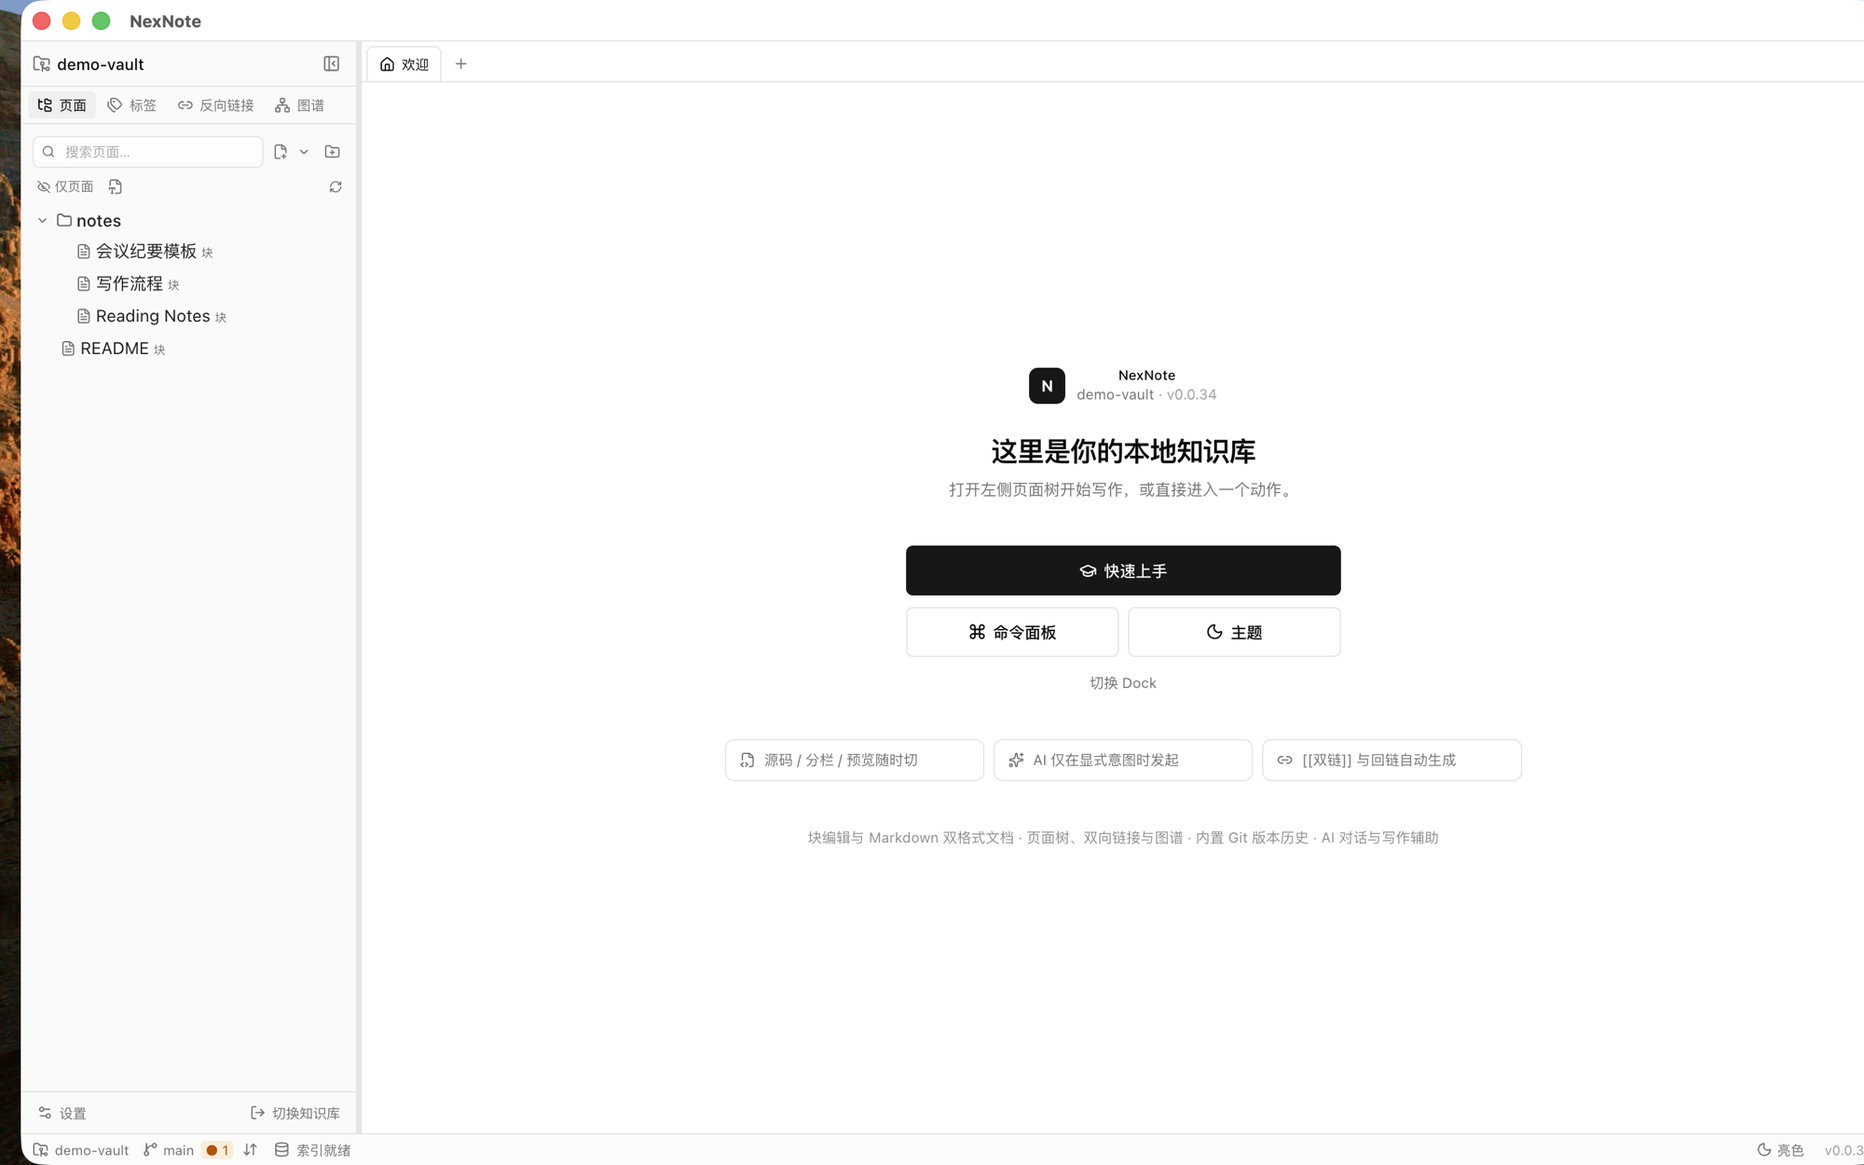
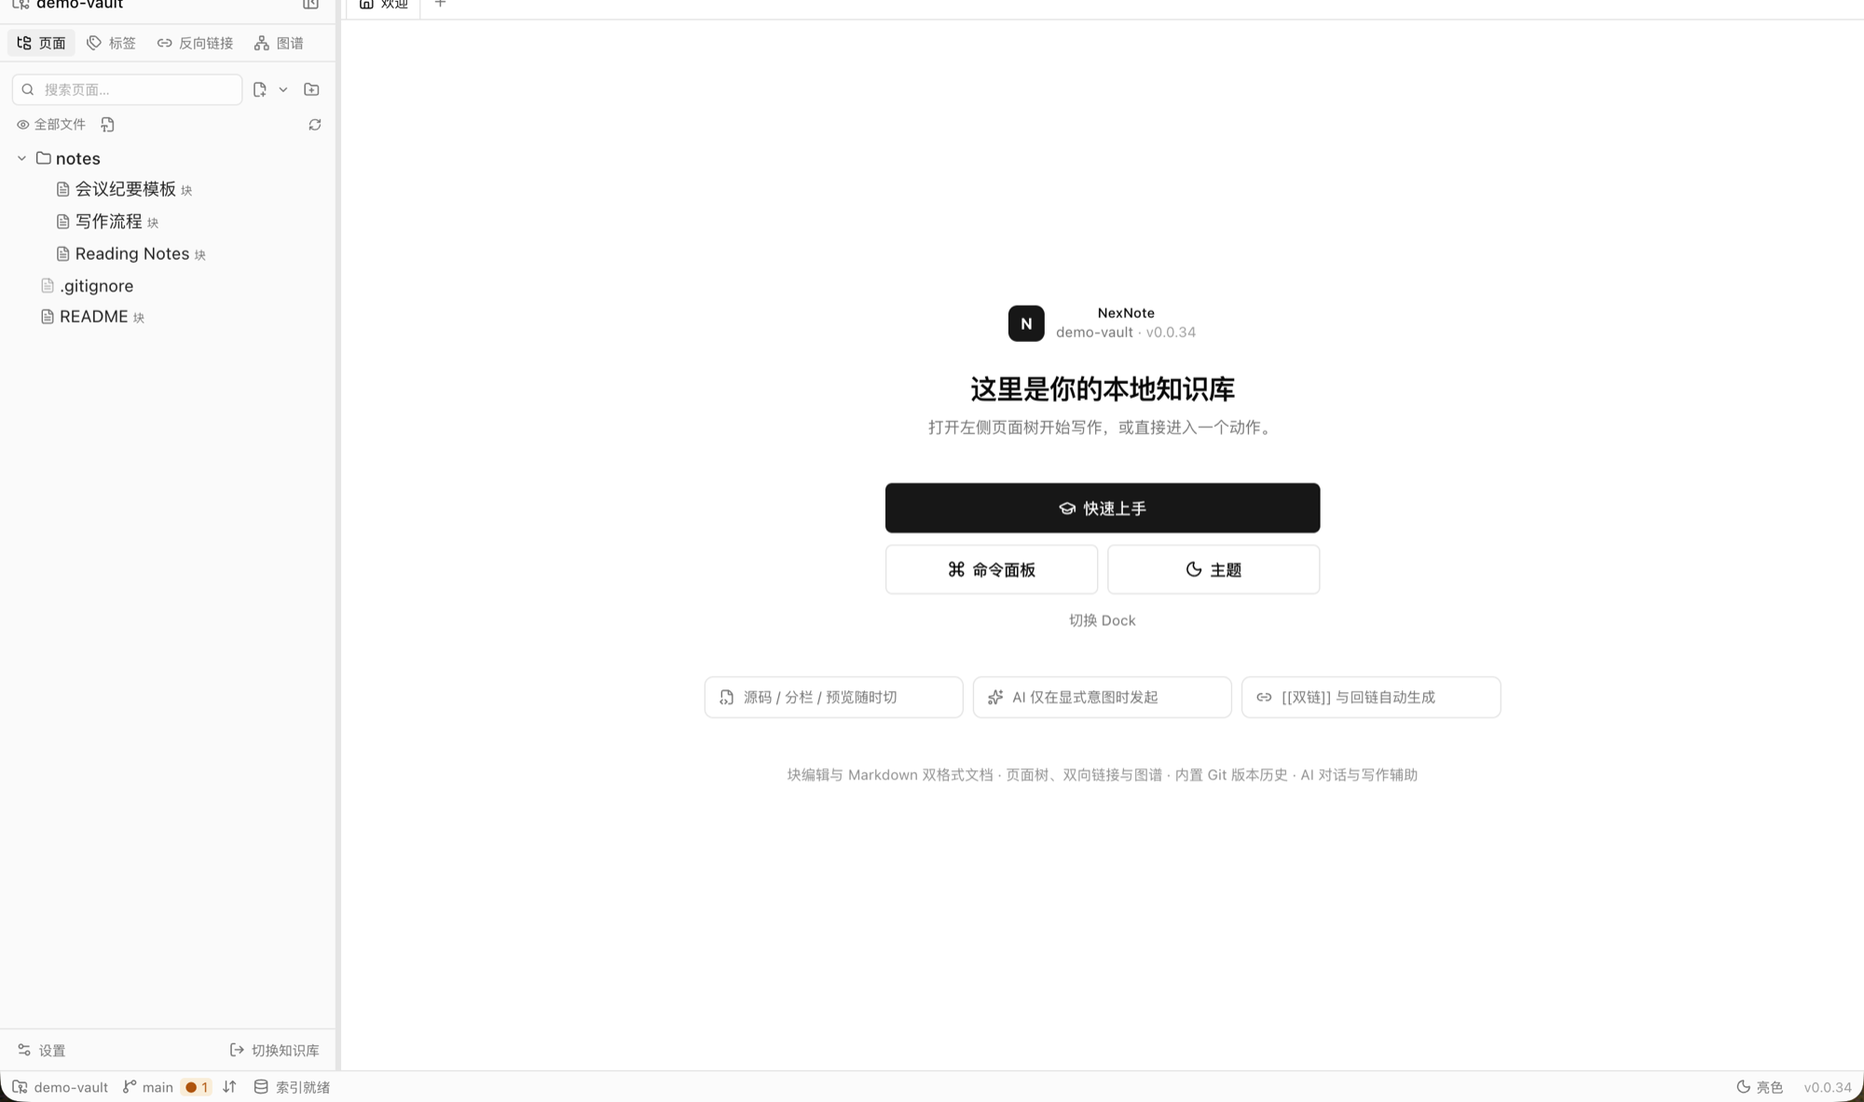
docs(website): DEV-103/ADR-0025 macOS 全套内容页截图嵌入中英正文
六张打包应用（v0.0.34）+ docs/demo-vault 实拍资产落盘
public/screenshots/（2000px，系统级点击 + 捕获期隐藏光标 + 仅截
窗口内容区，无光标残影/桌面条/窗口 chrome，逐张目检验收）：
welcome、editor-reading-notes、graph、settings、plugins、ai-dock。

文档渲染器解锁块级图片语法：仅放行仓库自带 /screenshots/*.png
（其余 src 一律拒绝），输出 figure + figcaption + lazy，docs.css
配套样式；六张图按章节嵌入中英正文并标注「截图以 macOS 为准」，
website-docs-render.test.tsx 锁定安全渲染、双语嵌入与资产存在性。

ADR-0025 与 DEV-103 回填：内容页截图 NOT_RUN → 完成（含图谱
Handle 缺陷修复交叉引用）；en-US 重截与 Windows/Linux 截图仍为
已登记后续项。

diff --git a/packages/renderer/tests/website-docs-render.test.tsx b/packages/renderer/tests/website-docs-render.test.tsx
@@ -2,9 +2,12 @@
 /** 网站文档渲染与路由契约的回归测试：渲染器在共享 vitest 环境下验证。 */
 import { act } from 'react';
 import { createRoot } from 'react-dom/client';
+import { existsSync } from 'node:fs';
+import { join } from 'node:path';
 import { describe, expect, it } from 'vitest';
 import { DocsChapter, DocsIndex, docsCopy } from '../../../apps/website/src/docs/DocsView';
 import { chapters } from '../../../apps/website/src/docs/content';
+import { renderMarkdown } from '../../../apps/website/src/docs/markdown';
 
 (globalThis as { IS_REACT_ACT_ENVIRONMENT?: boolean }).IS_REACT_ACT_ENVIRONMENT = true;
 
@@ -106,5 +109,43 @@ describe('website docs', () => {
       <DocsChapter lang="zh" text={docsCopy.zh} slug="spreadsheets-and-mindmaps" />,
     );
     expect(chapter).toContain('导入或新建');
+  });
+  it('renders bundled screenshots as lazy figures and rejects unsafe image sources', () => {
+    const safe = renderMarkdown('![界面](/screenshots/macos-welcome-zh.png "欢迎页实拍")');
+    expect(safe).toContain('<figure class="docs-figure">');
+    expect(safe).toContain('src="/screenshots/macos-welcome-zh.png"');
+    expect(safe).toContain('alt="界面"');
+    expect(safe).toContain('loading="lazy"');
+    expect(safe).toContain('decoding="async"');
+    expect(safe).toContain('<figcaption>欢迎页实拍</figcaption>');
+
+    const unsafe = renderMarkdown('![危险](javascript:alert(1))');
+    expect(unsafe).not.toContain('<img');
+    expect(unsafe).not.toContain('src="javascript:');
+  });
+  it('embeds screenshots in the relevant bilingual chapters and every asset exists', () => {
+    const expectations: Record<string, string[]> = {
+      'getting-started': [
+        '/screenshots/macos-welcome-zh.png',
+        '/screenshots/macos-editor-reading-notes-zh.png',
+        '/screenshots/macos-ai-dock-zh.png',
+      ],
+      wikilinks: ['/screenshots/macos-graph-zh.png'],
+      'ai-assistant': ['/screenshots/macos-ai-dock-zh.png'],
+      plugins: ['/screenshots/macos-plugins-zh.png'],
+      settings: ['/screenshots/macos-settings-zh.png'],
+    };
+
+    for (const lang of ['zh', 'en'] as const) {
+      for (const [slug, sources] of Object.entries(expectations)) {
+        const out = render(
+          <DocsChapter lang={lang} text={docsCopy[lang]} slug={slug} />,
+        );
+        for (const source of sources) {
+          expect(out).toContain(`src="${source}"`);
+          expect(existsSync(join(process.cwd(), 'apps/website/public', source))).toBe(true);
+        }
+      }
+    }
   });
 });

diff --git a/apps/website/src/docs/markdown.ts b/apps/website/src/docs/markdown.ts
@@ -1,8 +1,9 @@
 /**
  * 面向产品文档的最小 Markdown 渲染器。
  * 只支持仓库章节实际用到的语法：标题、段落、有序/无序列表、围栏代码块、
- * 引用、GFM 表格，以及行内的 `code` / **bold** / *italic* / [link](href)。
- * 输出经过转义；链接仅允许相对路径、锚点与 http(s)。
+ * 引用、GFM 表格、块级图片，以及行内的 `code` / **bold** / *italic* /
+ * [link](href)。输出经过转义；链接仅允许相对路径、锚点与 http(s)，
+ * 图片仅允许仓库自带的 `/screenshots/*.png`。
  */
 
 function escapeHtml(text: string): string {
@@ -30,6 +31,21 @@ function safeHref(href: string): string | null {
     return trimmed;
   }
   return null;
+}
+
+function safeImageSrc(src: string): string | null {
+  const trimmed = src.trim();
+  return /^\/screenshots\/[a-z0-9][a-z0-9/_-]*\.png$/i.test(trimmed) ? trimmed : null;
+}
+
+function image(line: string): string | null {
+  const match = /^!\[([^\]]*)\]\((\/screenshots\/[^\s)]+)(?:\s+"([^"]*)")?\)\s*$/.exec(line);
+  if (!match) return null;
+  const src = safeImageSrc(match[2] ?? '');
+  if (!src) return null;
+  const alt = escapeHtml(match[1] ?? '');
+  const caption = match[3] ? `<figcaption>${escapeHtml(match[3])}</figcaption>` : '';
+  return `<figure class="docs-figure"><img src="${escapeHtml(src)}" alt="${alt}" loading="lazy" decoding="async">${caption}</figure>`;
 }
 
 function inline(text: string): string {
@@ -109,6 +125,14 @@ export function renderMarkdown(source: string): string {
       index += 1;
       const attribute = language ? ` class="lang-${escapeHtml(language)}"` : '';
       out.push(`<pre${attribute}><code>${escapeHtml(body.join('\n'))}</code></pre>`);
+      continue;
+    }
+
+    const figure = image(line.trim());
+    if (figure) {
+      flushParagraph();
+      out.push(figure);
+      index += 1;
       continue;
     }
 

diff --git a/apps/website/src/docs.css b/apps/website/src/docs.css
@@ -245,6 +245,26 @@
   color: #312e81;
 }
 
+.docs-body .docs-figure {
+  margin: 22px 0 26px;
+}
+
+.docs-body .docs-figure img {
+  background: #fff;
+  border: 1px solid #deded8;
+  border-radius: 10px;
+  display: block;
+  height: auto;
+  width: 100%;
+}
+
+.docs-body .docs-figure figcaption {
+  color: #6b6b64;
+  font-size: 13px;
+  line-height: 1.6;
+  margin-top: 8px;
+}
+
 .docs-pager {
   border-top: 1px solid #deded8;
   display: flex;

diff --git a/docs/tickets/DEV-103-product-docs-on-website.md b/docs/tickets/DEV-103-product-docs-on-website.md
@@ -1,6 +1,6 @@
 # DEV-103 官网产品文档上线 + 欢迎页「快速上手」跳转文档
 
-状态：partial（文档站 + 跳转已随 v0.0.30 发布并于 2026-10-12 实拍复验 CTA；11 章内容已补齐；ADR-0024 手机端双语已实现；ADR-0023 桌面端双语阶段②③④持续推进；ADR-0025 macOS 欢迎页 + 文档站截图已出，应用内容页截图仍待 GUI 环境稳定）
+状态：partial（文档站 + 跳转已随 v0.0.30 发布并于 2026-10-12 实拍复验 CTA；11 章内容已补齐并嵌入全套 macOS 实拍截图；ADR-0024 手机端双语已实现；ADR-0023 桌面端双语阶段②③④持续推进；ADR-0025 macOS 全套 6 张截图完成并嵌入中英正文，en-US 重截与 Windows/Linux 截图仍待环境）
 日期：2026-10-07（grill 四轮确认；2026-10-07 随 v0.0.30 发布已落地的部分见「本轮实际交付」）
 关联：ADR-0021、ADR-0022、ADR-0023、ADR-0024、ADR-0025、ADR-0010（Docs 边界已被 ADR-0021 推翻并就地标注）、DEV-074
 
@@ -54,7 +54,7 @@
 
 - [ ] ADR-0023 桌面端界面双语：消息目录 + 跨进程错误码化，完成门槛 en-US 全 UI 无中文残留（2026-10-09 阶段①②第一批已落地，见下）
 - [x] ADR-0024 手机端 Flutter l10n（2026-10-09 完成：`flutter_localizations` + 各 161 key 的 `.arb` + 错误码化 + iOS `CFBundleLocalizations`/`knownRegions`；证据见下）
-- [ ] ADR-0025 演示知识库 + macOS 截图上官网；Windows/Linux 截图待环境就绪补拍
+- [x] ADR-0025 演示知识库 + macOS 截图上官网（2026-10-12 晚全套 6 张完成并嵌入中英正文；en-US 重截与 Windows/Linux 截图待环境就绪补拍）
 - [x] 文档其余章节补齐（2026-10-09 完成：11 章中英双语，`website-docs-render.test.tsx` 目录契约测试锁定）
 - [x] 官网部署到生产 Vercel 后核验深链对外可达（2026-10-09：四条生产深链均 200，且真实 Chrome 渲染核验中英快速上手页内容完整）
 
@@ -147,7 +147,7 @@
 
 - [x] 演示知识库已新建于 `docs/demo-vault/`（本地资产、不入外层仓库）：自带独立 `.git`、中英双语 4 个真实示例页面、双链与标签关系真实存在（ADR-0010/0025 硬约束）
 - [x] 截图的 GUI 环境阻塞已于 2026-10-12 解锁：Mac 唤醒后成功启动打包应用打开演示库并实拍（详见下方 2026-10-12 进展）
-- [~] 截图入官网：欢迎页 CTA 与文档站两张资产已落盘 `apps/website/public/screenshots/`，但按 ADR-0025「未实际拍摄不得声称已验收」，在应用内容页截图补齐前**不发布到官网正文**，避免以不完整截图集对外呈现
+- [~] 截图入官网：~~欢迎页 CTA 与文档站两张资产已落盘~~ → 2026-10-12 晚全套 6 张应用截图 + 文档站资产已落盘并嵌入中英正文（见下方「2026-10-12 晚」进展）
 - [ ] Windows/Linux 截图（环境不具备，见 ADR-0025 已登记后续项）
 
 ### ADR-0025 截图进展（2026-10-12）
@@ -155,7 +155,15 @@
 - [x] **欢迎页 CTA 实拍验收**：解锁后的图形会话中启动打包应用 `release/mac-arm64/NexNote.app`（v0.0.34）打开 `docs/demo-vault`，点击欢迎页「快速上手」后系统默认浏览器（Google Chrome）打开 `https://website-aiden-fes-projects.vercel.app/zh/docs/getting-started`，标题为「快速上手 · NexNote 文档」——「用系统默认浏览器打开对应语言文档页」的决定得到实测确认。
 - [x] **文档站实拍**：`/zh/docs/getting-started` 完整渲染 11 章侧栏、页内目录、正文表格与版本标注。用户此前报告的「文档无图例」经核查为当前设计边界——文档渲染器（`apps/website/src/docs/markdown.ts`）按 ADR-0010 只支持文本、表格、代码块与双链语法，不解析 `![](...)` 图片语法，文档正文本就是纯文字排版。
 - [x] 产出两张 macOS 实拍资产（2000px 宽，落盘 `apps/website/public/screenshots/`）：`macos-welcome-zh.png`（欢迎页 + 页面树 + 快速上手 CTA）、`docs-getting-started-zh.png`（文档快速上手页全貌）。暂未嵌入正文（渲染器不支持图片语法）。
-- [ ] macOS 全套**应用内容页**截图（编辑器 / 图谱 / 设置 / 插件）：本次 GUI 自动化中，侧边栏文件树的点击与 Tab 导航焦点在 Electron 渲染进程与浏览器之间反复漂移（前台被其他应用抢占、窗口位置漂移、Tab 焦点跳出到 Chrome），未能在打包应用中稳定打开 `notes/Reading Notes` 等内容页。按 ADR-0025「未实际拍摄不得声称已验收」的边界保持 `NOT_RUN`，不放有瑕疵截图充当证据。
+- [ ] macOS 全套**应用内容页**截图（编辑器 / 图谱 / 设置 / 插件）：本次 GUI 自动化中，侧边栏文件树的点击与 Tab 导航焦点在 Electron 渲染进程与浏览器之间反复漂移（前台被其他应用抢占、窗口位置漂移、Tab 焦点跳出到 Chrome），未能在打包应用中稳定打开 `notes/Reading Notes` 等内容页。按 ADR-0025「未实际拍摄不得声称已验收」的边界保持 `NOT_RUN`，不放有瑕疵截图充当证据。（→ 当晚已解决，见下）
+- [ ] en-US 界面重截、Windows/Linux 截图（环境仍不具备，见 ADR-0025）。
+
+### ADR-0025 截图进展（2026-10-12 晚，全套完成）
+
+- [x] **macOS 全套应用内容页截图实拍完成**：打包应用 v0.0.34 + `docs/demo-vault`，系统级 CGEvent 点击 + 捕获期隐藏光标 + 仅截窗口内容区（无光标、无桌面条、无窗口 chrome），六张 2000px 资产落盘并逐张目检验收：`macos-welcome-zh.png` / `macos-editor-reading-notes-zh.png` / `macos-graph-zh.png` / `macos-settings-zh.png` / `macos-plugins-zh.png` / `macos-ai-dock-zh.png`。
+- [x] **图谱页实拍暴露产品缺陷并修复**：自定义图谱节点未注册 React Flow `Handle`，全部 6 条边被 `EdgeWrapper` 丢弃（`getEdgePosition()` 恒 null）。`GraphPageNode` 补透明零占位 Handle，普通边色提升为 `--muted-foreground`；`graph-model.test.ts` 锁定边样式契约。
+- [x] **文档渲染器支持安全的块级图片语法**：`markdown.ts` 仅放行仓库自带 `/screenshots/*.png`（拒绝其他 src，`javascript:` 不产生 `<img>`），输出 `<figure>` + figcaption + lazy；`docs.css` 配套样式。
+- [x] **六张截图嵌入中英双语正文**：快速上手 ×3（欢迎页/编辑器/AI dock）、wikilinks（图谱）、ai-assistant（AI dock）、plugins、settings；题注注明「截图以 macOS 为准，各平台功能一致」。`website-docs-render.test.tsx` 锁定安全渲染、双语嵌入与资产文件存在性。
 - [ ] en-US 界面重截、Windows/Linux 截图（环境仍不具备，见 ADR-0025）。
 
 ## Out of scope

diff --git a/docs/adr/0025-official-screenshot-platform-policy.md b/docs/adr/0025-official-screenshot-platform-policy.md
@@ -44,11 +44,36 @@ status: in_progress
   - `apps/website/public/screenshots/macos-welcome-zh.png`（欢迎页 + 页面树 + 快速上手 CTA）
   - `apps/website/public/screenshots/docs-getting-started-zh.png`（文档快速上手页全貌）
 
-### 仍未完成
+### 仍未完成（2026-10-12 下午核查，当晚已解决第一项）
 
-- **应用内容页（编辑器/图谱/设置/插件等）截图**：本次 GUI 自动化中，侧边栏文件树的
-  点击与 Tab 导航焦点在 Electron 渲染进程与浏览器之间反复漂移（前台被其他应用抢占、
-  窗口位置漂移、Tab 焦点跳出到 Chrome），未能在打包应用中稳定打开
-  `notes/Reading Notes` 等内容页。按本 ADR「未实际拍摄的平台/页面不得声称已验收」的边界，
-  这些页面保持 `NOT_RUN`，不放入任何有瑕疵的截图作为验收证据。
-- en-US 界面重截、macOS 全套页面截图、Windows/Linux 截图仍待后续环境就绪补拍。
+- ~~**应用内容页（编辑器/图谱/设置/插件等）截图**~~：当晚已全套实拍完成，见下节。
+- en-US 界面重截、Windows/Linux 截图仍待后续环境就绪补拍。
+
+### 应用内容页截图全套完成（2026-10-12 晚）
+
+- **实拍中发现并修复产品缺陷**：初版图谱页截图显示 4 节点但 6 条链接全部缺失——
+  根因是自定义图谱节点（`GraphPageNode`）未注册 React Flow `Handle`，`getEdgePosition()`
+  恒返回 null，`EdgeWrapper` 丢弃全部边。修复为节点注册透明零占位 Handle（不参与连线），
+  并顺带把普通边色从几乎不可见的 `--border` 提升为 `--muted-foreground`（1.4 宽、
+  选中路径外 0.2 透明度）。`graph-model.test.ts` 锁定边样式契约。
+- **文档渲染器解锁图片语法**：`apps/website/src/docs/markdown.ts` 新增**块级**图片支持，
+  仅放行仓库自带 `/screenshots/*.png`（其余 src 一律拒绝，`javascript:` 等不产生 `<img>`），
+  输出 `<figure class="docs-figure">` + 可选 figcaption，`loading="lazy"`；`docs.css` 配套
+  figure 样式。`website-docs-render.test.tsx` 锁定安全渲染、双语章节嵌入与资产文件存在性。
+- **截图工艺定型**：系统级 CGEvent 点击 + 捕获期 `CGDisplayHideCursor` 隐藏光标 +
+  `screencapture -R0,80,1440,852` 仅取窗口内容区（跳过标题栏与圆角外桌面），彻底消除
+  此前批次的光标残影与顶部桌面条瑕疵；点击后光标移至空白区避免 hover tooltip 残留。
+- **六张内容页截图全部实拍完成**（打包应用 v0.0.34 + `docs/demo-vault`，2000px 宽落盘
+  `apps/website/public/screenshots/`，均经逐张目检验收）：
+  - `macos-welcome-zh.png`（欢迎页 + 页面树 + 快速上手 CTA，Dock 收起）
+  - `macos-editor-reading-notes-zh.png`（Reading Notes 块编辑器：frontmatter、双语正文、双链、已保存）
+  - `macos-graph-zh.png`（知识图谱 4 页面 · 6 链接，修复后边全部渲染）
+  - `macos-settings-zh.png`（设置 → 常规：外观/语言/字体/翻译）
+  - `macos-plugins-zh.png`（设置 → 插件：内置 Mermaid 详情、贡献点、权限、RPC 审计）
+  - `macos-ai-dock-zh.png`（欢迎页 + 右侧 AI 对话 dock 未配置空态）
+- 六张截图已嵌入中英双语对应章节正文（快速上手 ×3、双链/图谱、AI 助手、插件、设置），
+  题注标注「截图以 macOS 为准，各平台功能一致」口径。
+
+### 仍未完成（截至 2026-10-12 晚）
+
+- en-US 界面重截、Windows/Linux 截图（环境仍不具备，见上）。

diff --git a/docs/user-guide/en/getting-started.md b/docs/user-guide/en/getting-started.md
@@ -21,6 +21,8 @@ A vault is an ordinary folder, and it must contain `.git`. NexNote creates `.nex
 
 Once it is open, the page tree is on the left, the command palette is on top (⌘K), and the collapsible AI chat dock is on the right.
 
+![NexNote welcome screen and quick-start action](/screenshots/macos-welcome-zh.png "Captured on macOS with the Simplified Chinese UI; Windows and Linux expose the same features.")
+
 ## 2. Write your first page
 
 Click "New" in the page tree to pick one of three formats:
@@ -32,6 +34,8 @@ Click "New" in the page tree to pick one of three formats:
 In a block document, typing `/` opens the quick-insert menu for headings, to-dos, code blocks, callouts, Mermaid diagrams and math formulas.
 
 Content is **autosaved** (by default 1.5 seconds after you stop typing) and then bundled into one Git commit by the **auto-commit** window (30 seconds by default). Both intervals are configurable in Settings.
+
+![A real block document in the editor](/screenshots/macos-editor-reading-notes-zh.png "A page from the demo vault; the heading, list, wikilink and saved state are real product UI.")
 
 ## 3. Create your first wikilink
 
@@ -61,6 +65,8 @@ The default shortcuts are `⌘E` (source ↔ split) and `⌘⇧E` (preview ↔ t
 AI is unavailable until you add an OpenAI-compatible provider profile (base URL, API key, model name) under **Settings → AI providers**. The key is stored in the system keychain and is never written into the vault.
 
 NexNote only issues an AI request when **you explicitly trigger an AI action** — editing, saving, navigating, or changing the selection never does. Sessions have permission modes: chat (read-only), edit (approve each turn), and full access (writes back automatically under guardrails).
+
+![The collapsible AI chat dock on the right](/screenshots/macos-ai-dock-zh.png "AI stays unconfigured until you add a provider; only explicit AI actions issue requests.")
 
 ## 6. Version history and sync
 

diff --git a/docs/user-guide/en/plugins.md b/docs/user-guide/en/plugins.md
@@ -25,3 +25,5 @@ Mermaid diagrams and KaTeX formulas ship as built-in plugins: their manifests ar
 ## Managing plugins
 
 In Settings you can inspect installed plugins, enable or disable them, and see which capabilities each declares. Third-party plugins only see data the host allows. The API protocol has a stable version, and breaking changes increment the major version.
+
+![The plugin management page](/screenshots/macos-plugins-zh.png "Built-in Mermaid and KaTeX plugins can be inspected, toggled and audited for contributions and permissions.")

diff --git a/docs/user-guide/en/wikilinks.md b/docs/user-guide/en/wikilinks.md
@@ -41,3 +41,5 @@ Writing `#tag` in the body indexes it. Tags aggregate in the sidebar Tags panel;
 ## Knowledge graph
 
 The graph view draws pages as nodes and wikilinks as edges. It reads the same relation data as backlinks, so anything visible in the graph is also findable through Linked Mentions. The graph is visualization only and never changes files.
+
+![The global knowledge graph](/screenshots/macos-graph-zh.png "Four pages and six wikilinks from the demo vault; node size reflects inbound links.")

diff --git a/docs/user-guide/en/ai-assistant.md b/docs/user-guide/en/ai-assistant.md
@@ -19,6 +19,8 @@ Open **Settings → AI Providers** and add an OpenAI-compatible profile:
 
 No cloud key ships with the repository and none is hosted for you. You can disable or delete a profile in Settings at any time.
 
+![The AI chat dock on the welcome screen](/screenshots/macos-ai-dock-zh.png "Without a provider, the AI panel only offers the configuration entry point and issues no network request.")
+
 ## Three permission modes
 
 Every AI session runs under one explicit permission mode:
